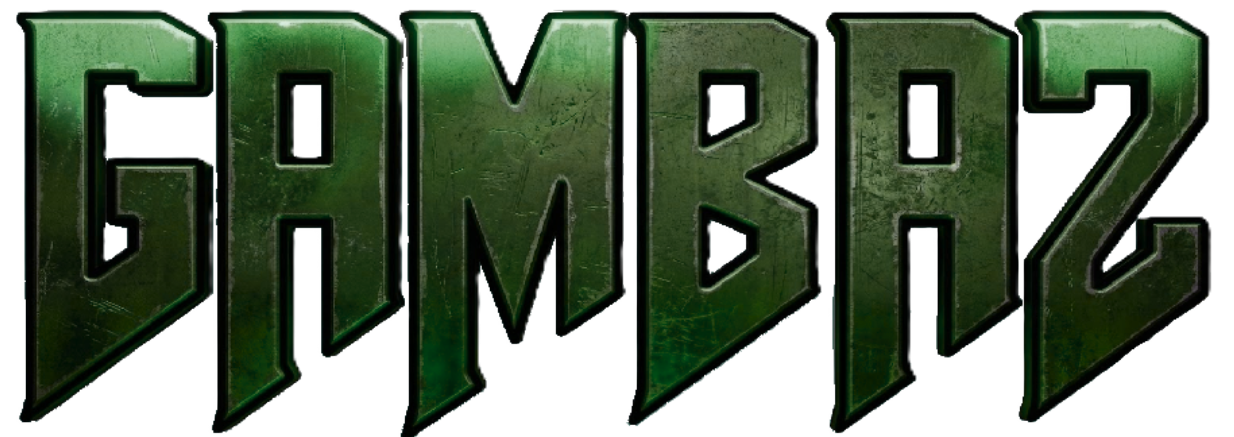
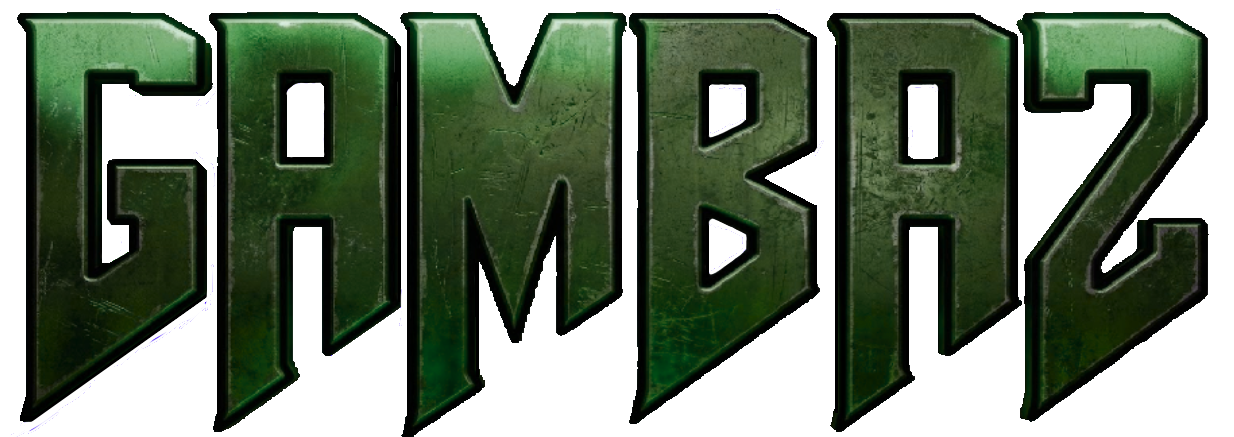
actualizacion presentacio 2

diff --git a/index.html b/index.html
@@ -902,8 +902,8 @@
       </div>
       <div class="phase-line phase-line--done"></div>
       <div class="phase-step">
-        <div class="phase-dot"></div>
-        <div class="phase-label">Testeo bugs</div>
+        <div class="phase-dot phase-dot--active"></div>
+        <div class="phase-label phase-label--active">Testeo bugs</div>
       </div>
       <div class="phase-line"></div>
       <div class="phase-step">
@@ -940,8 +940,9 @@
       </a>
 
       <!-- Bugs — PRÓXIMAMENTE -->
-      <div class="feedback-card feedback-card--soon reveal">
-        <div class="feedback-card-phase">Fase 2 · Testeo bugs</div>
+      <!-- DESPUÉS -->
+      <a href="https://docs.google.com/forms/d/e/1FAIpQLScAk_qB_oF0wyQexJOz5O9hv0azCFiMVMTclGcMXO8dD5B2uw/viewform?usp=publish-editor" target="_blank" rel="noopener" class="feedback-card feedback-card--active reveal">
+        <div class="feedback-card-phase">Fase 2 · Activo ahora</div>
         <div class="feedback-card-icon">
           <!-- Bicho/bug pixelado -->
           <svg viewBox="0 0 56 56" fill="none" xmlns="http://www.w3.org/2000/svg" width="48" height="48">
@@ -970,8 +971,8 @@
         <p class="feedback-card-desc">
           ¿Encontraste algo raro? Descríbenos el bug, cuándo ocurre, en qué nivel y si puedes reproducirlo. Cada dato nos ayuda a llegar a la versión final en el mejor estado posible.
         </p>
-        <div class="feedback-card-cta">PROXIMAMENTE</div>
-      </div>
+        <div class="feedback-card-cta">Rellenar formulario →</div>
+      </a>
 
       <!-- Presentación final — PRÓXIMAMENTE -->
       <div class="feedback-card feedback-card--soon reveal">